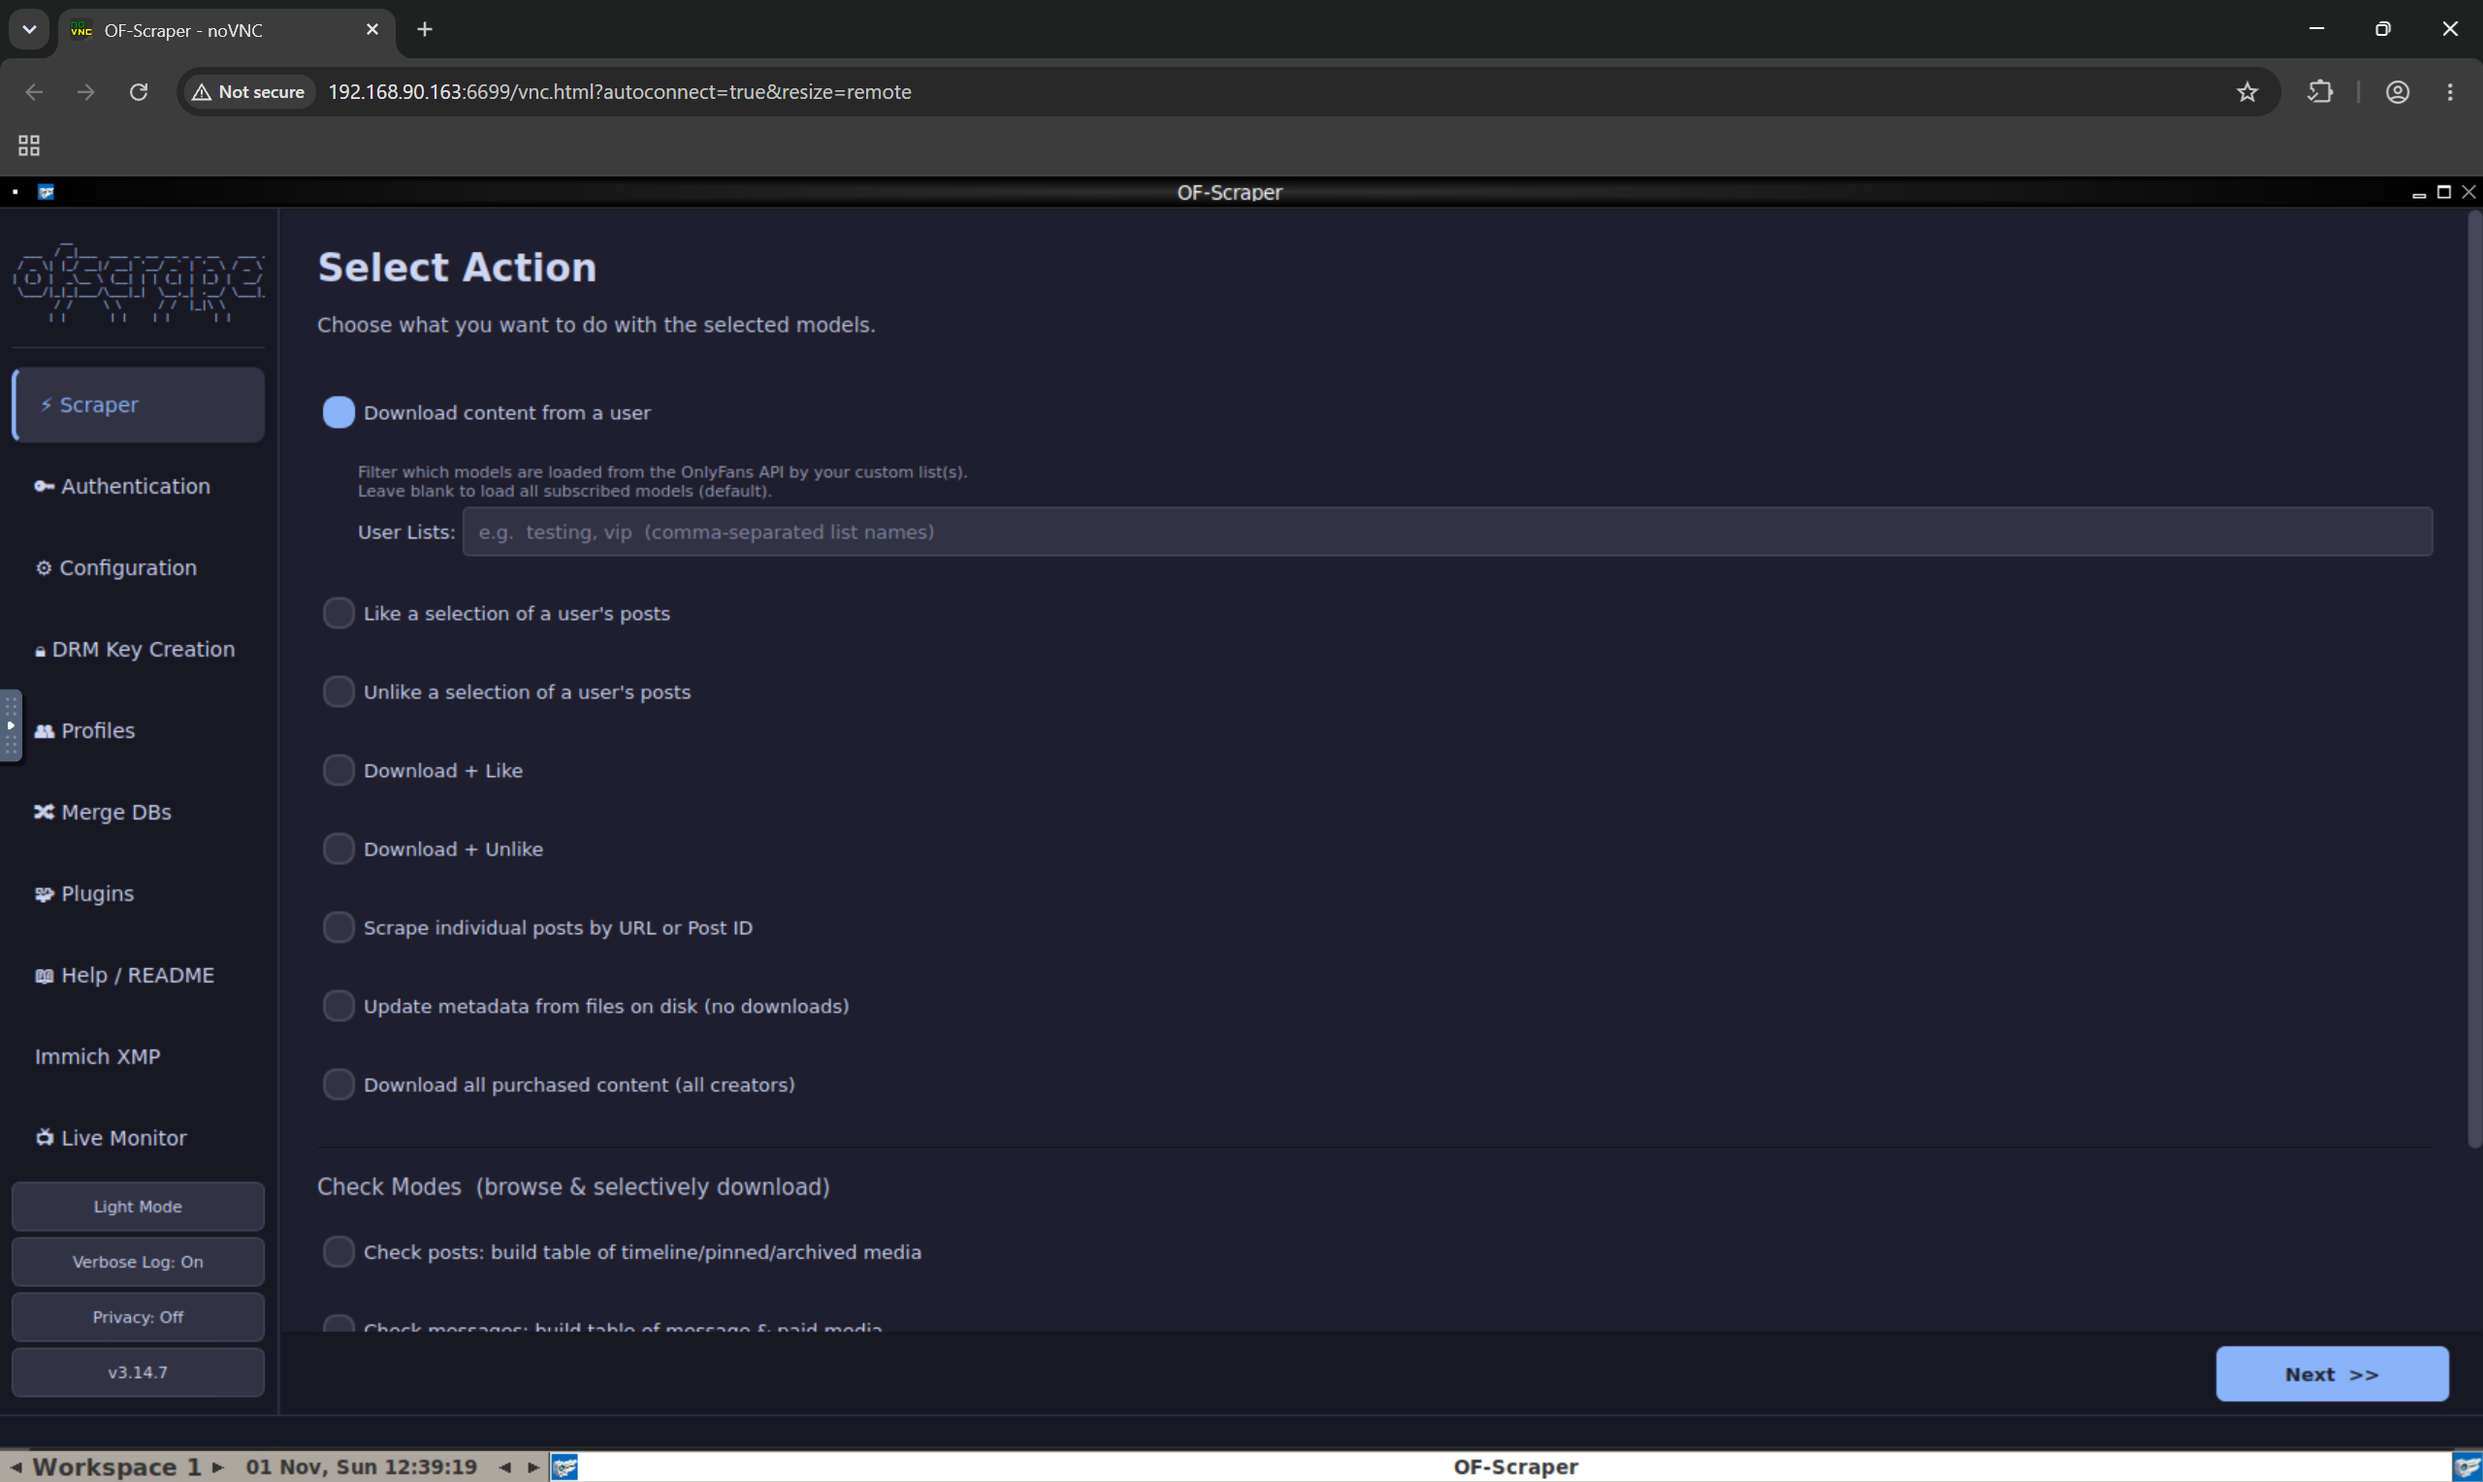
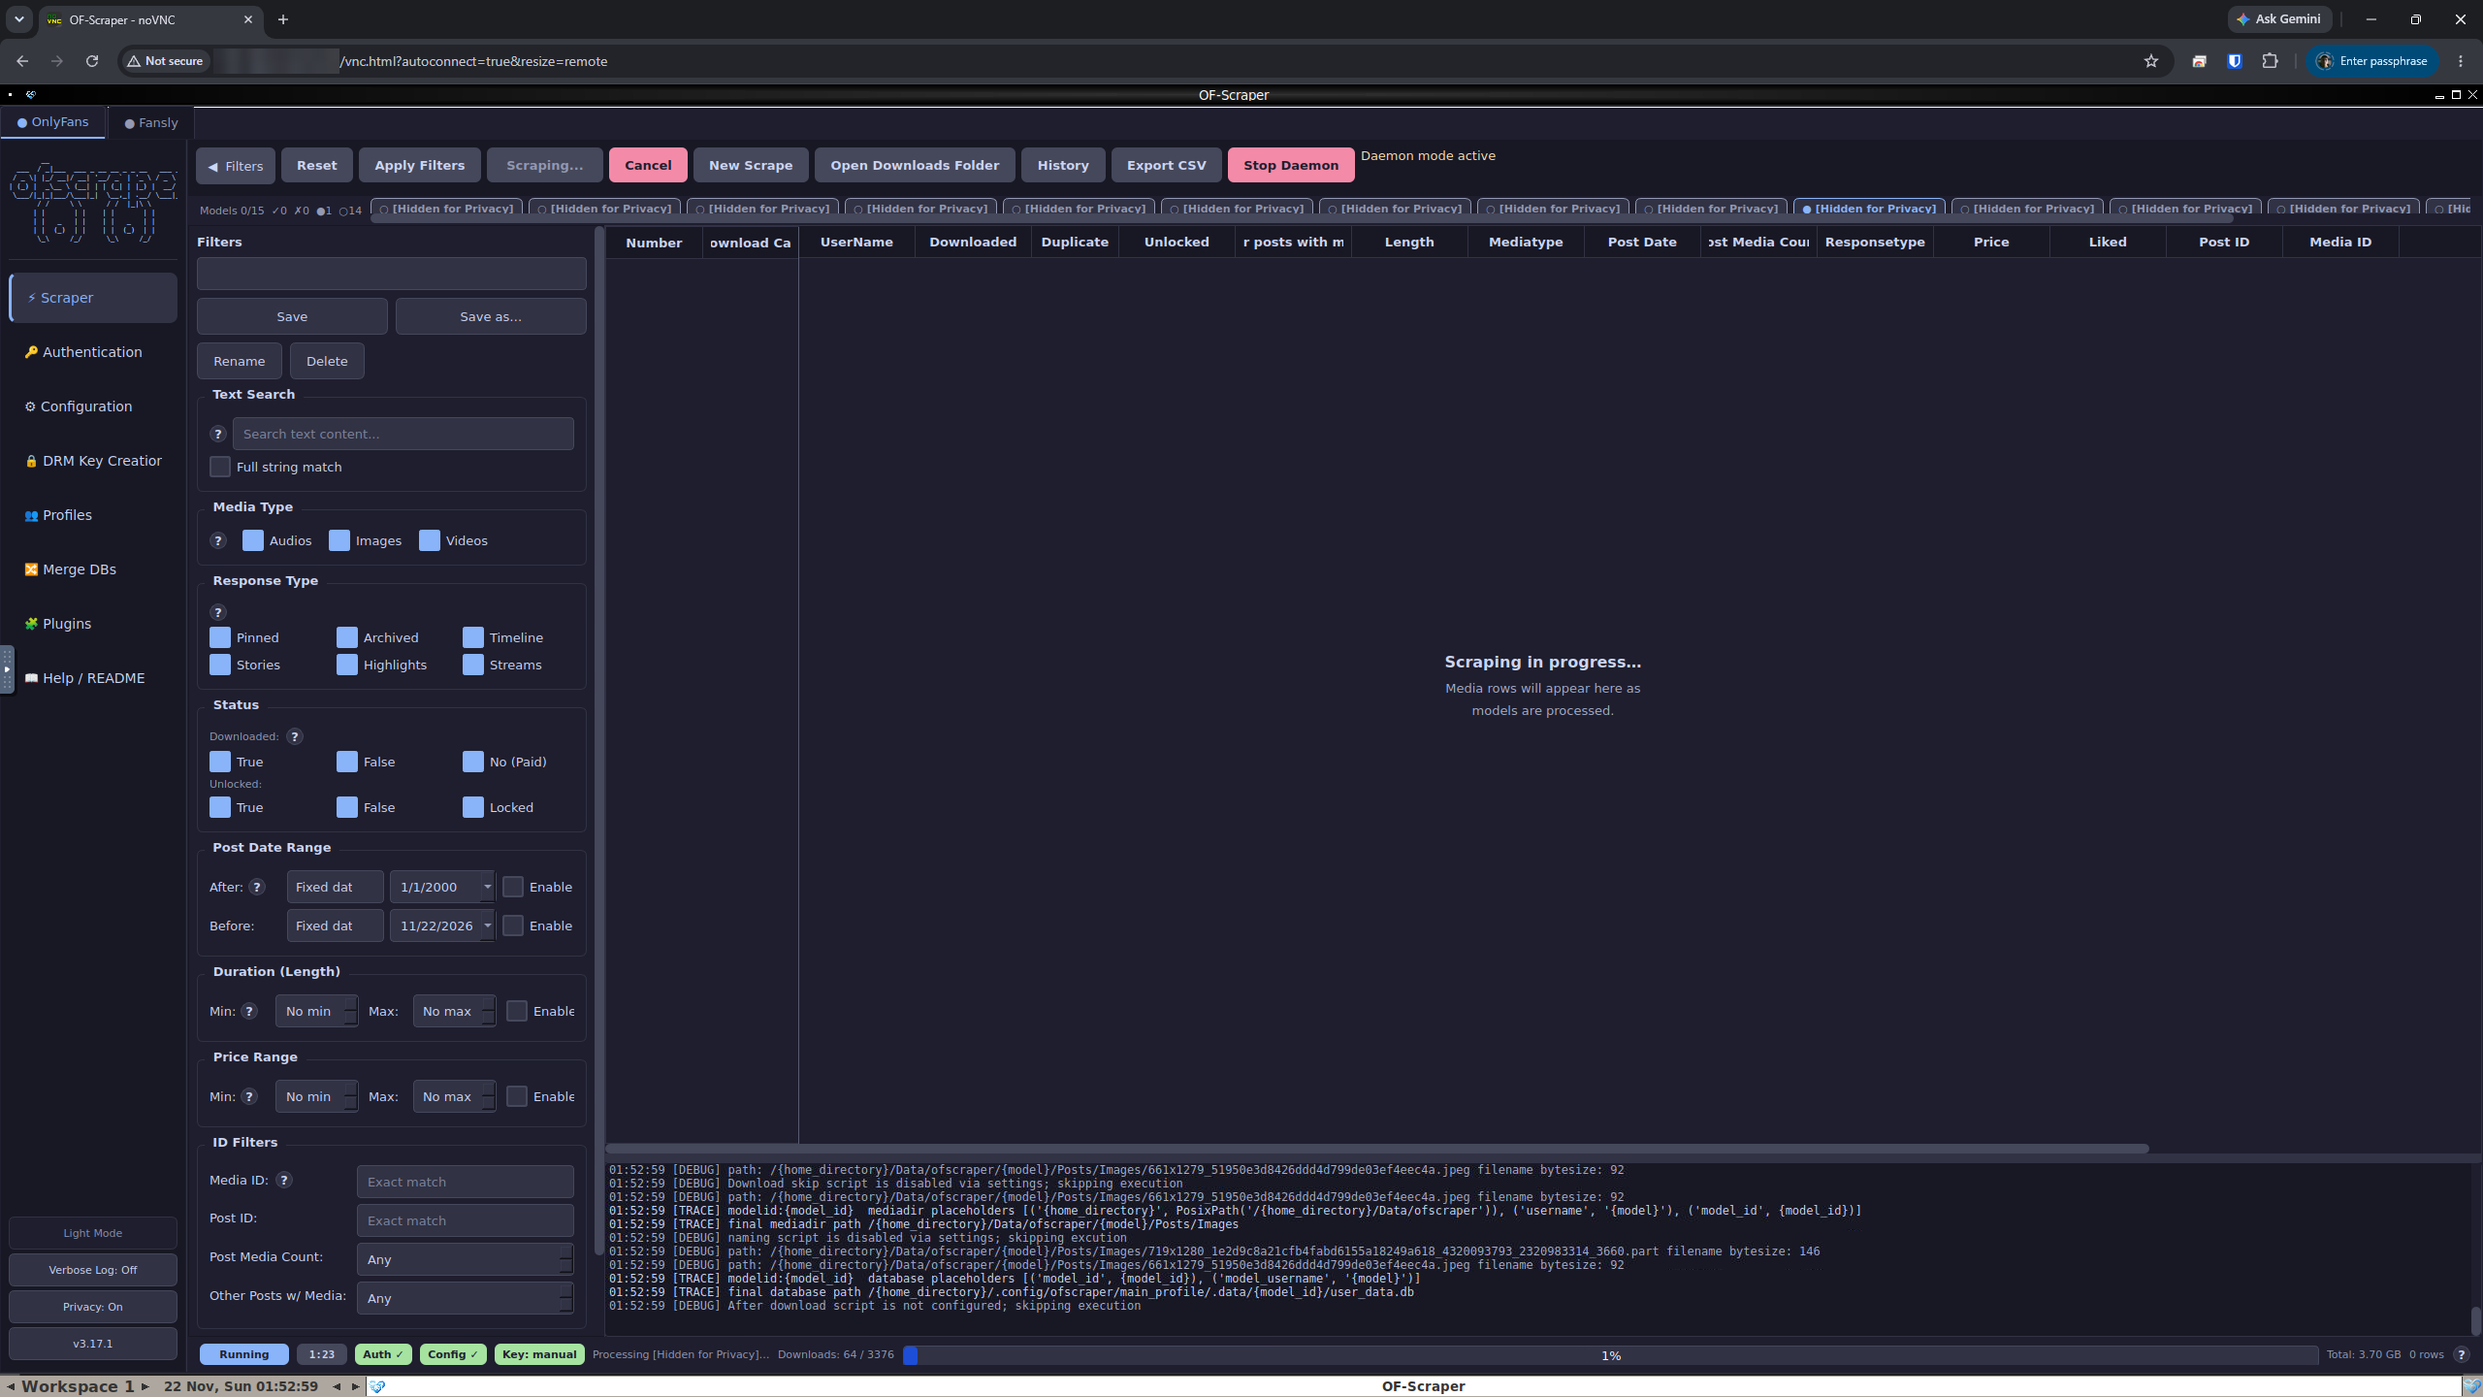
Docs: Docker noVNC screenshot with both sites scraping in one container
Replaces the Select Action shot from before the tabs. The host's LAN
address in the browser bar is blurred.

Changed region(s): [[0.0, 0.0, 1.0, 1.0], [0.5625, 0.4688, 0.6562, 0.5312], [0.0, 0.5938, 0.0625, 0.625]]

diff --git a/README.md b/README.md
@@ -129,7 +129,7 @@ Run the GUI on a machine without a desktop and open it at `http://<host>:6699/` 
 docker compose build ofscraper-gui
 docker compose up -d ofscraper-gui
 ```
-<img src="https://github.com/user-attachments/assets/92188357-6881-4879-8d4b-a264c9de7b39" width="700" alt="OF-Scraper GUI running in Docker, open in a web browser through noVNC on port 6699 (Select Action page)">
+<img src="docs/images/docker-novnc.png" width="700" alt="OF-Scraper GUI in Docker, open in a web browser through noVNC on port 6699: both the OnlyFans and Fansly tabs show a dot because both sites are scraping in one container (daemon mode, Privacy mode on); the host address is blurred">
 
 The desktop resizes to fit your browser window, and the GUI stays maximized in it: resize the window or go full screen and the GUI follows. `SCREEN_WIDTH` / `SCREEN_HEIGHT` in `docker-compose.yml` are only the starting size.
 

diff --git a/docs/docker.md b/docs/docker.md
@@ -112,7 +112,7 @@ Config and auth are stored on the config volume, so they survive rebuilds and re
 
 ## Accessing the GUI
 
-<img src="images/docker-novnc.png" width="700" alt="OF-Scraper GUI running in Docker, open in a web browser through noVNC on port 6699 (Select Action page)">
+<img src="images/docker-novnc.png" width="700" alt="OF-Scraper GUI in Docker, open in a web browser through noVNC on port 6699: both the OnlyFans and Fansly tabs show a dot because both sites are scraping in one container (daemon mode, Privacy mode on); the host address is blurred">
 
 | Method | Address | Notes |
 |---|---|---|
